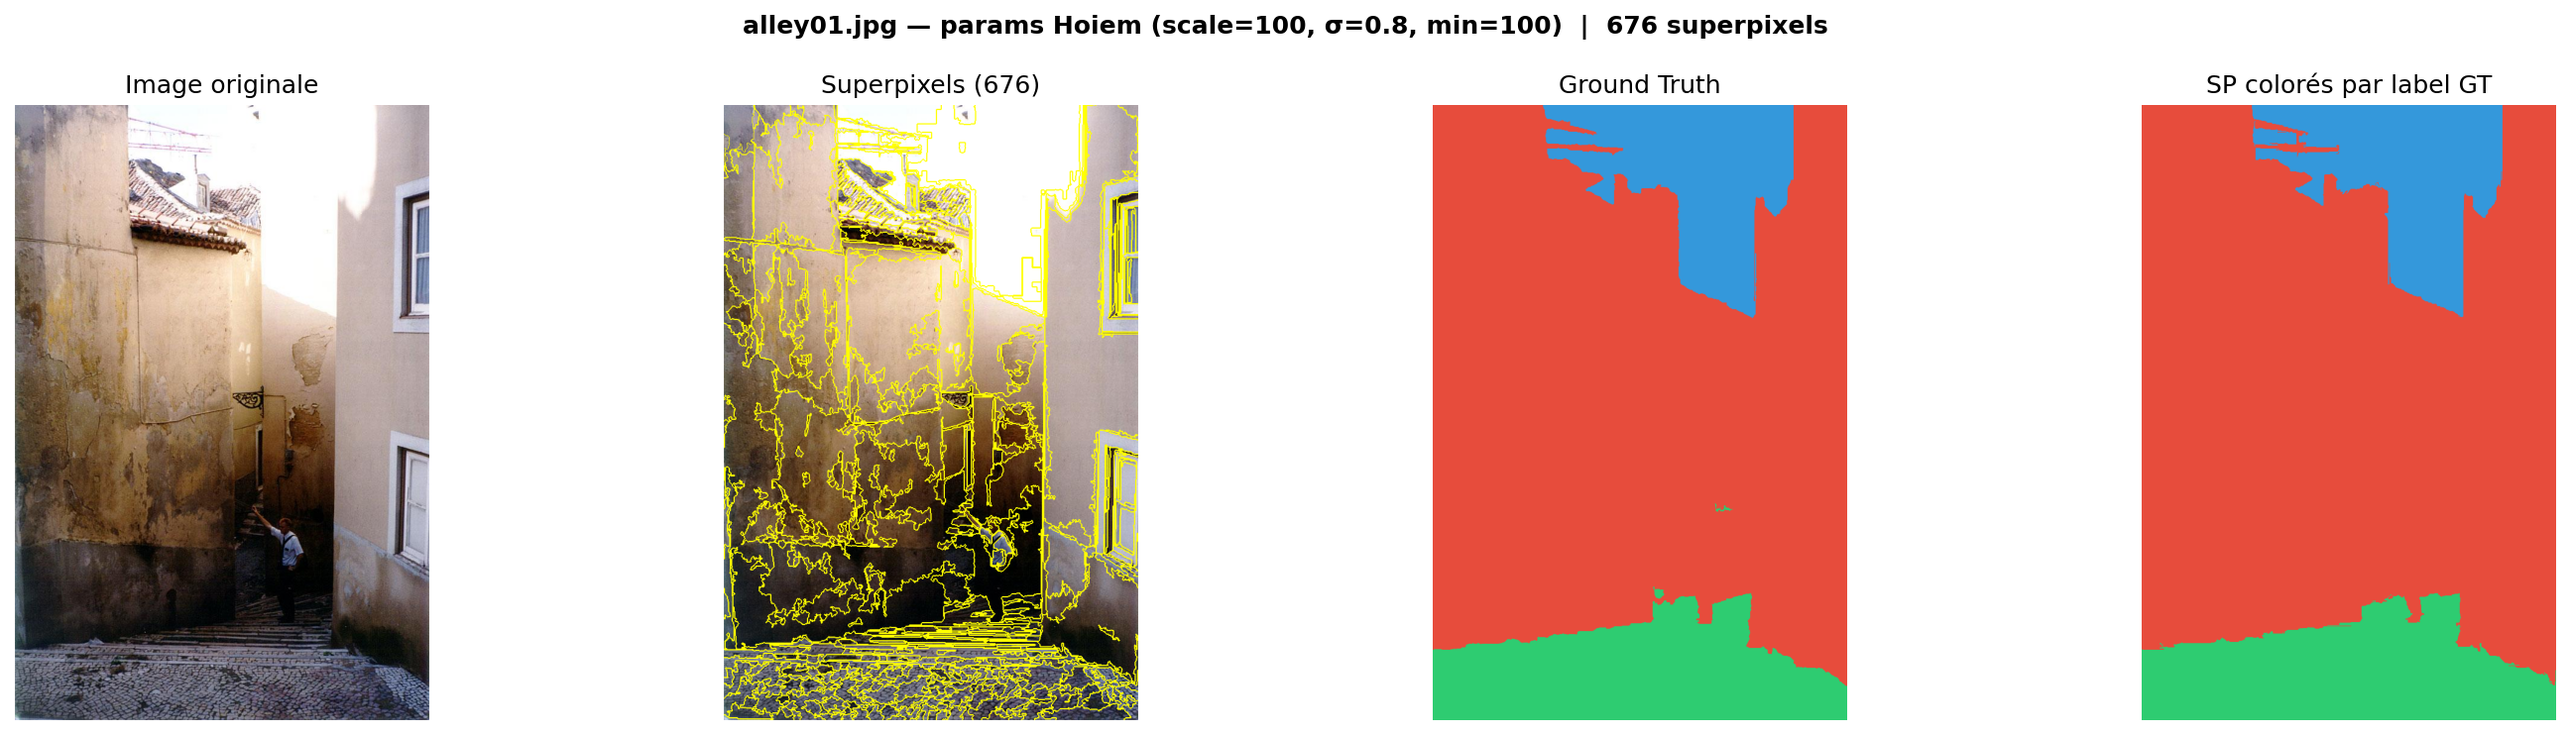
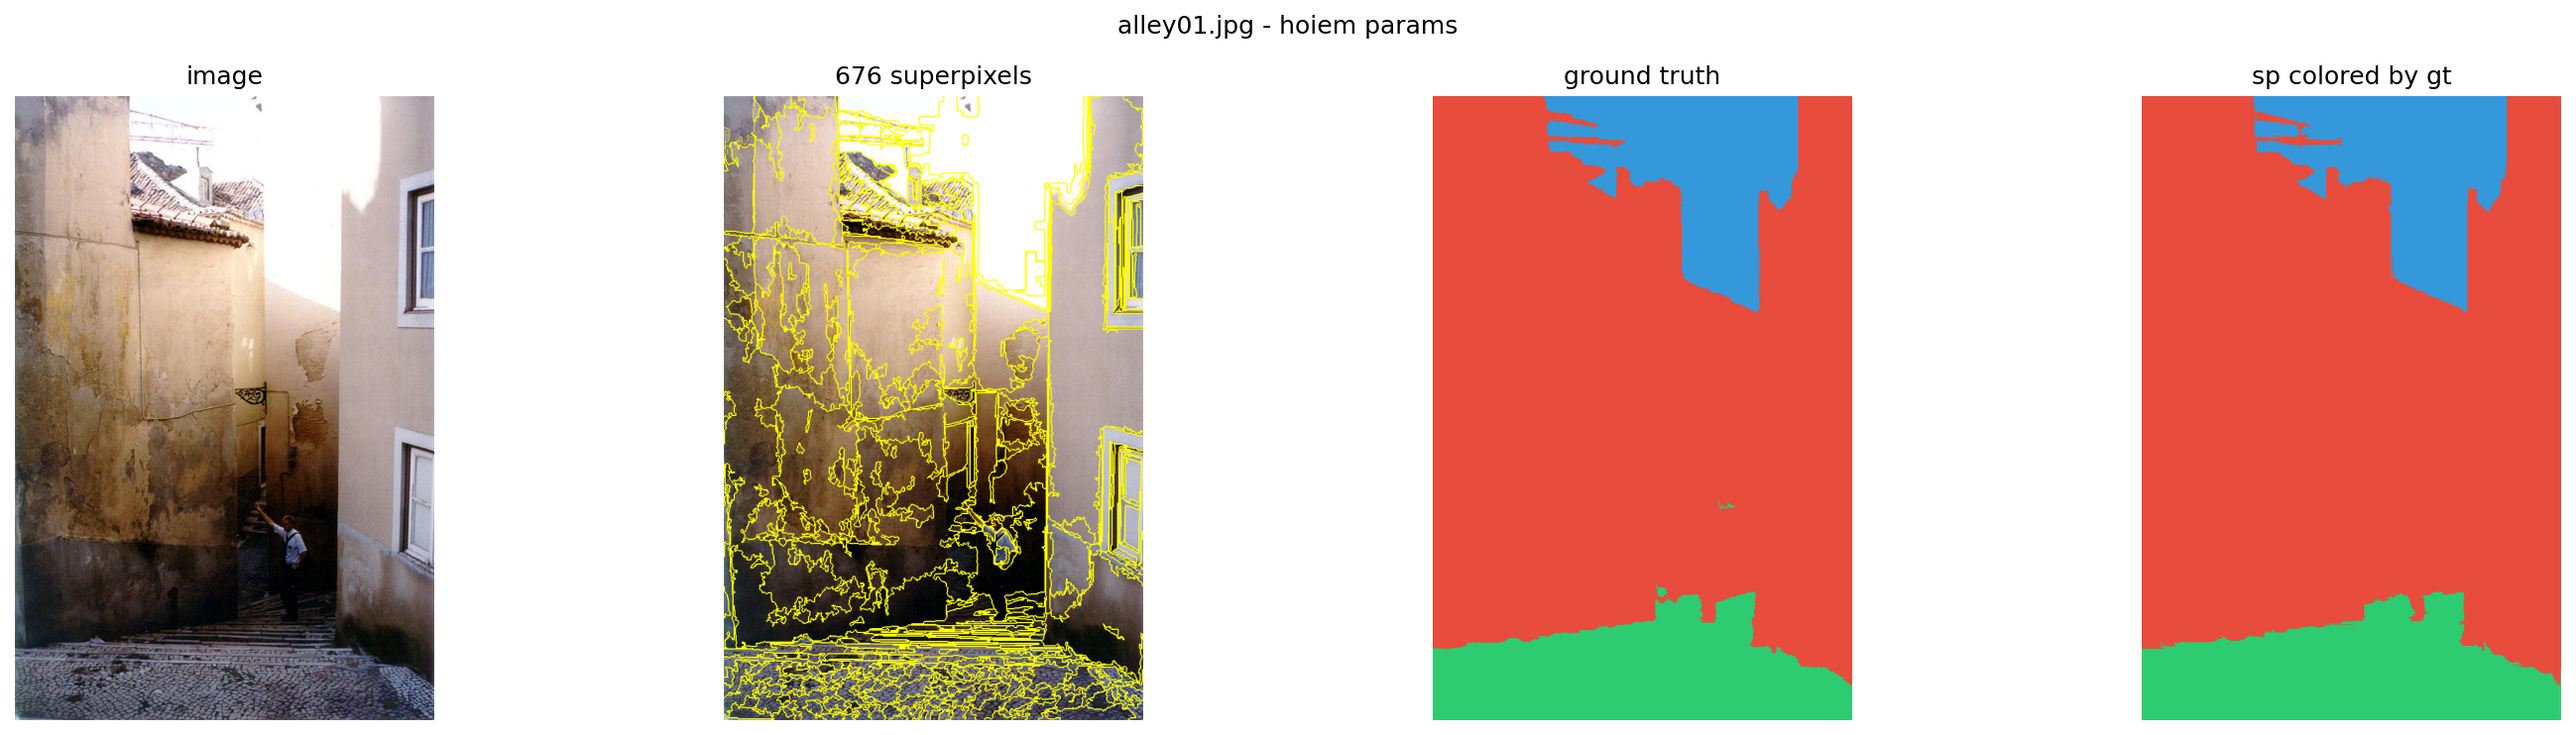
add file BP but NOT FINISHED yet, it's for testing in colab

diff --git a/06_belief_propagation.py b/06_belief_propagation.py
@@ -1,0 +1,302 @@
+import sys
+import numpy as np
+import matplotlib; matplotlib.use("Agg")
+import matplotlib.pyplot as plt
+from pathlib import Path
+from sklearn.ensemble import AdaBoostClassifier
+from sklearn.tree import DecisionTreeClassifier
+from sklearn.preprocessing import StandardScaler
+from sklearn.metrics import confusion_matrix
+import pickle
+
+sys.path.insert(0, "src")
+from dataset import HoiemDataset, LABEL_NAMES, LABEL_COLORS, LABEL_IDS
+from superpixels import load_sp, load_ft, build_adjacency
+
+DATASET_DIR = Path("dataset")
+MODEL_DIR   = Path("data/models"); MODEL_DIR.mkdir(parents=True, exist_ok=True)
+OUT_DIR     = Path("outputs"); OUT_DIR.mkdir(exist_ok=True)
+
+LAMBDA_PAIRWISE = 0.5
+N_ITERS = 10
+
+
+# =========================
+# ENERGY
+# =========================
+def compute_energy(labels, unary, adjacency, lam):
+    E = np.sum(unary[np.arange(len(labels)), labels])
+
+    for i in range(len(labels)):
+        for j in adjacency[i]:
+            if i < j and labels[i] != labels[j]:
+                E += lam
+    return E
+
+
+# =========================
+# BELIEF PROPAGATION
+# =========================
+def belief_propagation(unary, adjacency, n_iters=10, lam=0.5, track_energy=False):
+    N, L = unary.shape
+    messages = {}
+
+    for i in range(N):
+        for j in adjacency[i]:
+            messages[(i, j)] = np.zeros(L)
+            messages[(j, i)] = np.zeros(L)
+
+    energy_curve = []
+
+    for _ in range(n_iters):
+        new_messages = {}
+
+        for i in range(N):
+            for j in adjacency[i]:
+
+                msg = unary[i].copy()
+                for k in adjacency[i]:
+                    if k != j:
+                        msg += messages[(k, i)]
+
+                new_msg = np.zeros(L)
+                for lj in range(L):
+                    new_msg[lj] = min(
+                        msg[li] + (0 if li == lj else lam)
+                        for li in range(L)
+                    )
+
+                new_msg -= new_msg.min()
+                new_messages[(i, j)] = new_msg
+
+        messages = new_messages
+
+        if track_energy:
+            beliefs = compute_beliefs(unary, adjacency, messages)
+            labels = np.argmin(beliefs, axis=1)
+            energy_curve.append(compute_energy(labels, unary, adjacency, lam))
+
+    beliefs = compute_beliefs(unary, adjacency, messages)
+    labels = np.argmin(beliefs, axis=1)
+
+    if track_energy:
+        return labels, energy_curve
+    return labels
+
+
+def compute_beliefs(unary, adjacency, messages):
+    N, L = unary.shape
+    beliefs = np.zeros((N, L))
+
+    for i in range(N):
+        beliefs[i] = unary[i]
+        for k in adjacency[i]:
+            beliefs[i] += messages[(k, i)]
+
+    return beliefs
+
+
+# =========================
+# DATA LOADING
+# =========================
+def load_split_data(ds, indices):
+    X, y = [], []
+
+    for idx in indices:
+        _, _, m = ds[idx]
+        ft = load_ft(m["imname"])
+        if ft is None:
+            continue
+
+        feats = ft["features"]
+        labels = ft["sp_labels"]
+
+        mask = labels > 0
+        X.append(feats[mask])
+        y.append(labels[mask] - 1)
+
+    return np.vstack(X), np.concatenate(y)
+
+
+# =========================
+# INFERENCE PER IMAGE
+# =========================
+def run_bp_on_image(ft, sp, clf, scaler):
+    feats = ft["features"]
+    segments = sp["segments"]
+
+    X = scaler.transform(feats)
+    probas = clf.predict_proba(X)
+    unary = -np.log(probas + 1e-6)
+
+    adjacency = build_adjacency(segments)
+
+    preds = belief_propagation(unary, adjacency, N_ITERS, LAMBDA_PAIRWISE)
+
+    # ⚠ SAFE mapping
+    pred_map = np.zeros_like(segments)
+    sp_ids = np.unique(segments)
+
+    for i, sp_id in enumerate(sp_ids):
+        if sp_id < len(preds):
+            pred_map[segments == sp_id] = preds[sp_id] + 1
+
+    return pred_map
+
+
+# =========================
+# METRICS
+# =========================
+def pixel_accuracy_bp(ds, indices, clf, scaler):
+    correct = total = 0
+
+    for idx in indices:
+        _, label_map, m = ds[idx]
+        ft = load_ft(m["imname"])
+        sp = load_sp(m["imname"])
+        if ft is None or sp is None:
+            continue
+
+        pred_map = run_bp_on_image(ft, sp, clf, scaler)
+
+        valid = label_map > 0
+        correct += (pred_map[valid] == label_map[valid]).sum()
+        total += valid.sum()
+
+    return correct / total
+
+
+# =========================
+# PLOTS
+# =========================
+def plot_confusion_bp(ds, indices, clf, scaler, save_path):
+    all_preds, all_true = [], []
+
+    for idx in indices[:50]:
+        _, label_map, m = ds[idx]
+        ft = load_ft(m["imname"])
+        sp = load_sp(m["imname"])
+        if ft is None or sp is None:
+            continue
+
+        pred_map = run_bp_on_image(ft, sp, clf, scaler)
+
+        valid = label_map > 0
+        all_true.extend(label_map[valid].tolist())
+        all_preds.extend(pred_map[valid].tolist())
+
+    cm = confusion_matrix(all_true, all_preds, labels=LABEL_IDS, normalize="true")
+
+    fig, ax = plt.subplots()
+    im = ax.imshow(cm)
+    plt.colorbar(im)
+
+    ax.set_xticks(range(3)); ax.set_yticks(range(3))
+    ax.set_xticklabels([LABEL_NAMES[l] for l in LABEL_IDS])
+    ax.set_yticklabels([LABEL_NAMES[l] for l in LABEL_IDS])
+
+    for i in range(3):
+        for j in range(3):
+            ax.text(j, i, f"{cm[i,j]:.2f}", ha="center", va="center")
+
+    plt.title("Confusion Matrix (BP)")
+    plt.savefig(save_path)
+    plt.close()
+
+
+def plot_predictions_bp(ds, indices, clf, scaler, save_path, n=6):
+    fig, axes = plt.subplots(3, n, figsize=(4*n, 12))
+
+    for col, idx in enumerate(indices[:n]):
+        image, label_map, m = ds[idx]
+        ft = load_ft(m["imname"])
+        sp = load_sp(m["imname"])
+        if ft is None or sp is None:
+            continue
+
+        pred_map = run_bp_on_image(ft, sp, clf, scaler)
+
+        gt_rgb = np.zeros((*label_map.shape, 3), dtype=np.uint8)
+        pred_rgb = np.zeros((*label_map.shape, 3), dtype=np.uint8)
+
+        for l, c in LABEL_COLORS.items():
+            gt_rgb[label_map == l] = c
+            pred_rgb[pred_map == l] = c
+
+        axes[0, col].imshow(image)
+        axes[1, col].imshow(gt_rgb)
+        axes[2, col].imshow(pred_rgb)
+
+        for r in range(3):
+            axes[r, col].axis("off")
+
+    plt.tight_layout()
+    plt.savefig(save_path)
+    plt.close()
+
+
+def plot_energy_curve(curve, save_path):
+    plt.figure(figsize=(6,4))
+    plt.plot(curve, marker='o')
+    plt.xlabel("Iteration")
+    plt.ylabel("Energy")
+    plt.title("BP convergence")
+    plt.grid()
+    plt.savefig(save_path)
+    plt.close()
+
+
+# =========================
+# MAIN
+# =========================
+def main():
+    ds = HoiemDataset(root_dir=DATASET_DIR)
+    train_ds, test_ds = ds.get_split()
+
+    train_indices = train_ds._i
+    test_indices = test_ds._i
+
+    print("Loading features...")
+    X_tr, y_tr = load_split_data(ds, train_indices)
+
+    scaler = StandardScaler().fit(X_tr)
+    X_tr = scaler.transform(X_tr)
+
+    clf = AdaBoostClassifier(
+        estimator=DecisionTreeClassifier(max_depth=3),
+        n_estimators=200,
+        random_state=42,
+    )
+    clf.fit(X_tr, y_tr)
+
+    print("\nRunning BP inference...")
+    acc = pixel_accuracy_bp(ds, test_indices, clf, scaler)
+    print(f"Pixel accuracy (BP): {acc:.4f}")
+
+    plot_predictions_bp(ds, test_indices, clf, scaler,
+                        OUT_DIR / "step6_bp_predictions.png")
+
+    plot_confusion_bp(ds, test_indices, clf, scaler,
+                      OUT_DIR / "step6_confusion.png")
+
+    # convergence on one image
+    _, _, m0 = ds[test_indices[0]]
+    ft0 = load_ft(m0["imname"])
+    sp0 = load_sp(m0["imname"])
+
+    X0 = scaler.transform(ft0["features"])
+    unary0 = -np.log(clf.predict_proba(X0) + 1e-6)
+    adj0 = build_adjacency(sp0["segments"])
+
+    _, energy_curve = belief_propagation(
+        unary0, adj0, N_ITERS, LAMBDA_PAIRWISE, track_energy=True
+    )
+
+    plot_energy_curve(energy_curve, OUT_DIR / "step6_energy.png")
+
+    with open(MODEL_DIR / "bp_model.pkl", "wb") as f:
+        pickle.dump({"clf": clf, "scaler": scaler}, f)
+
+
+if __name__ == "__main__":
+    main()
